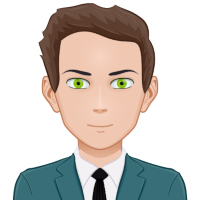
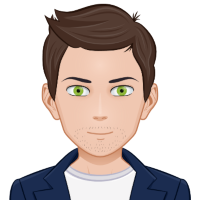
New VoltZ Image & Update Credits Screen.

diff --git a/3ds/source/screens/creditsScreen.cpp b/3ds/source/screens/creditsScreen.cpp
@@ -107,7 +107,7 @@ void drawVoltZ(void) {
 
 	Gui::sprite(1, credits_voltZ_idx, -10, 40);
 	Gui::DrawString(250, 50, 0.40, WHITE, "Hello There!");
-	Gui::DrawString(185, 65, 0.40, WHITE, "Thank you for using Universal-Manager!\nI'm the Main Developer, VoltZ.\n I'm also the Main Developer of LeafEdit,\nanother project from our Team which you \ncan download Using: Universal-Manager! \nI hope You enjoy Universal-Manager\nand don't be shy:\nTo join the Universal-Server on Discord!\nAlso visit our site here: \nhttps://universal-team.github.io/");
+	Gui::DrawString(185, 65, 0.40, WHITE, "Thank you for using Universal-Manager!\nI'm the Main Developer, VoltZ.\n I'm also the Main Developer of LeafEdit,\nanother project from our Team which you \ncan download Using: Universal-Manager! \nI hope You enjoy Universal-Manager\nand don't be shy:\nTo join the Universal-Server on Discord!\nAlso visit our site here: \nhttps://universal-team.github.io/\nYou can always hold Select, to see the \nInstructions.");
 
 	// BG Bottom Stuff.
 	set_screen(bottom);
@@ -329,5 +329,7 @@ void Credits::Logic(u32 hDown, u32 hHeld, touchPosition touch) {
 		} else if (touching(touch, creditsButtonPos[6])) {
 			dialog = 6;
 		}
+	} else if (hHeld & KEY_SELECT) {
+		helperBox("Hello! I'm a Test Instruction! :P");
 	}
 }
